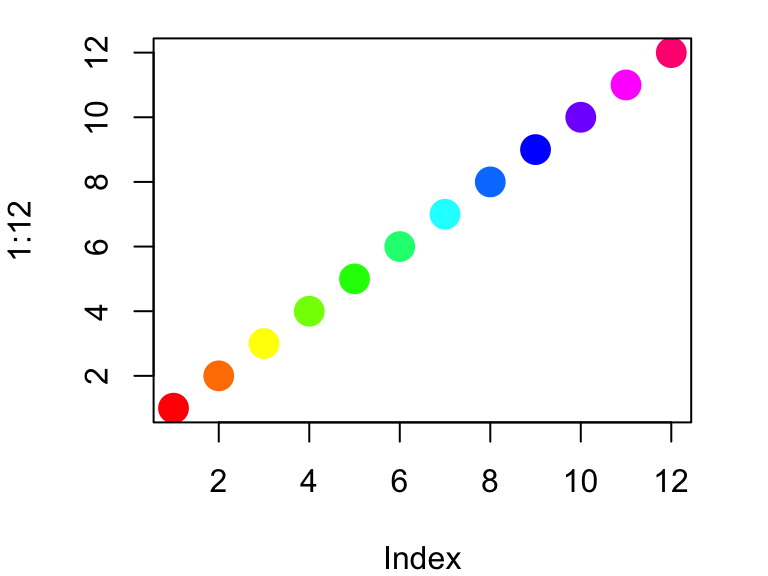
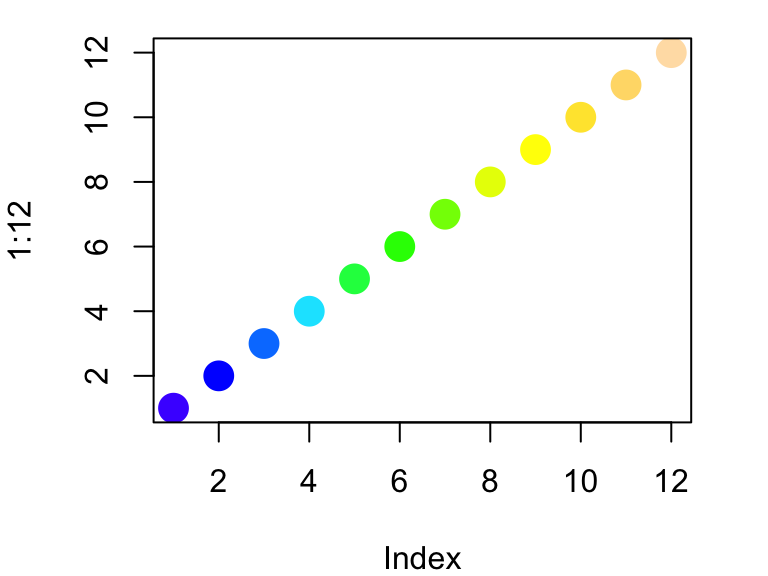
plot module update

diff --git a/05.Plots_1.html b/05.Plots_1.html
@@ -312,13 +312,13 @@ div.tocify {
 <p>But let’s not get ahead of ourselves. In this module, we will cover the basics of the plotting functions in the base package of R. There are many additional packages that help you produce fancier plots (e.g., ‘ggplot2’ and ‘lattice’). We may cover ggplot2 later in the course.</p>
 <hr />
 <div id="first-question-what-do-you-want-to-show" class="section level2">
-<h2>First Question: What do you want to show?</h2>
+<h2>5.1 First Question: What do you want to show?</h2>
 <p>There many, many different ways to visualize data (see <a href="https://datavizproject.com/">datavizproject.com</a>). In fact, “data visualization” is an industry in and of itself at this point. What we need is some directory of different kinds of ways to visualize a given set of data.</p>
 <p><a href="https://serialmentor.com/dataviz/directory-of-visualizations.html">The directory of visualizations presented in Claus Wilke’s online version of his book</a> is as good as any I’ve seen.</p>
 <hr />
 </div>
 <div id="the-basics" class="section level2">
-<h2>5.1 The Basics</h2>
+<h2>5.2 The Basics</h2>
 <p>We will start with the generic <code>plot()</code> function. This function can produce a variety of basic plots. The function can take two different syntax:</p>
 <ul>
 <li><code>plot(x , y)</code> – The Cartesian format will take two variables and plot the first element on the x-axis and the second element on the y-axis. The plot this produces will depend on the type of variables (i.e., numeric or factor) that you put in.</li>
@@ -327,7 +327,7 @@ div.tocify {
 <p>R will automatically detect the type of vector (variable) you are trying to plot.</p>
 <hr />
 <div id="lets-try-it-out" class="section level3">
-<h3>5.1.1 Let’s try it out:</h3>
+<h3>5.2.1 Let’s try it out:</h3>
 <p>Try plotting two numerical vectors (i.e., continuous variables) that we create:</p>
 <pre class="r"><code>a=seq(1,15, 1) #continuous variable 1
 b=seq(16,30,1) #continuous variable 2
@@ -343,35 +343,29 @@ plot(fac, a) #plot factor on x-axis and continuous variable on y-axis</code></pr
 <pre class="r"><code>plot(a~fac) #formula syntax using &quot;~&quot;</code></pre>
 <p>Notice that, in the formula syntax, the order of the variables is different. Here, you are saying “plot <code>a</code> as a function of <code>fac</code>”, so the first variable will show up on the y-axis and the second variable will be plotted on the x-axis.</p>
 <hr />
-</div>
-<div id="a-bit-more-on-boxplots" class="section level3">
-<h3>5.1.2 A bit more on boxplots…</h3>
-<pre class="r"><code>plot(a, fac) #output not shown</code></pre>
-<p>If you want to create a horizontal box plot, the correct way to do it is:</p>
-<pre class="r"><code>plot(fac, a horizontal=T) #output not shown</code></pre>
-<p>There is also another way to create a box plot, using the <code>boxplot()</code> function. For this, the input is different: You will put a series of numerical vectors as different elements. Try this:</p>
-<pre class="r"><code>boxplot(1:5, 6:10, 11:15, names=c(&quot;A&quot;, &quot;B&quot;, &quot;C&quot;))</code></pre>
-<p><img src="05.Plots_1_files/figure-html/unnamed-chunk-9-1.png" width="384" /></p>
-<p><em>What is actually happening when you use the <code>plot()</code> function is that when R runs different functions depending on your input format. Thus, if R detects that you want to plot a factor on the x-axis and numeric on the y-axis, it calls the <code>boxplot()</code> function and runs that function instead. A lot of functions in R work this way: it can call different functions depending on what your inputs look like. Functions like these are sometimes called “wrapper functions”. You don’t really need to know this…</em></p>
 <hr />
 </div>
 <div id="line-plots-and-others" class="section level3">
-<h3>5.1.3 Line plots and others</h3>
+<h3>5.2.2 Line plots and others</h3>
 <p>If you have a timeseries, you sometimes want to create a <strong>line plot</strong>. You can do this simply by designating the plot ‘type’ inside the <code>plot()</code> function:</p>
 <pre class="r"><code>t=seq(1,10,1) # time sequence, from 1 to 10
 response=c(1,5,4,2,3,9,6,7,8,10) # 10 random numbers
 plot(t, response, type=&quot;l&quot;) #plot a line plot</code></pre>
-<p><img src="05.Plots_1_files/figure-html/unnamed-chunk-11-1.png" width="384" /></p>
-<p>You can plot the same figure using points, or both points and lines, and a few other formats (you can look these up using <code>?plot()</code>). Try these out (outputs not shown):</p>
+<p><img src="05.Plots_1_files/figure-html/unnamed-chunk-7-1.png" width="384" /></p>
+<p>You can plot the same figure with both lines and points by using <code>type=&quot;b&quot;</code> for “both”</p>
+<pre class="r"><code>t=seq(1,10,1) # time sequence, from 1 to 10
+response=c(1,5,4,2,3,9,6,7,8,10) # 10 random numbers
+plot(t, response, type=&quot;b&quot;) #plot a line plot</code></pre>
+<p><img src="05.Plots_1_files/figure-html/unnamed-chunk-9-1.png" width="384" /></p>
+<p>You can plot the same figure using a few other formats (you can look these up using <code>?plot()</code>). Try these out (outputs not shown):</p>
 <pre class="r"><code>plot(t, response, type=&quot;p&quot;) #plot just points
-plot(t, response, type=&quot;b&quot;) #plot both points and lines
 plot(t, response, type=&quot;h&quot;) #Make a histogram-like plot with thin lines
 plot(t, response, type=&quot;s&quot;) #Make stair steps</code></pre>
 <hr />
 </div>
 </div>
 <div id="plotting-data-from-a-dataframe" class="section level2">
-<h2>5.2 Plotting data from a dataframe</h2>
+<h2>5.3 Plotting data from a dataframe</h2>
 <p>Let’s practice plotting data from a dataframe.<br />
 First, we need some data to play with. For this exercise, we will use a dataset called <code>iris</code>, which is pre-loaded in R:</p>
 <pre class="r"><code>iris #see all the data
@@ -384,47 +378,47 @@ str(iris) #see the structure of the iris dataset
 </div>
 <p>Let’s try plotting two continuous variables against each other:</p>
 <pre class="r"><code>plot(iris$Sepal.Length, iris$Sepal.Width)</code></pre>
-<p><img src="05.Plots_1_files/figure-html/unnamed-chunk-15-1.png" width="384" /></p>
+<p><img src="05.Plots_1_files/figure-html/unnamed-chunk-13-1.png" width="384" /></p>
 <p>Compare this with what happens when you plot a continuous variable (sepal length) against a factor (iris species):</p>
 <pre class="r"><code>plot(iris$Species, iris$Sepal.Width)</code></pre>
-<p><img src="05.Plots_1_files/figure-html/unnamed-chunk-17-1.png" width="384" /></p>
+<p><img src="05.Plots_1_files/figure-html/unnamed-chunk-15-1.png" width="384" /></p>
 <p>You can also use the <em>formula syntax</em> to do the same thing. Try:</p>
 <pre class="r"><code>plot(iris$Sepal.Width~iris$Sepal.Length) #scatterplot
 plot(iris$Sepal.Width~iris$Species) #box plot</code></pre>
 <p>One useful feature of the formula syntax is that it allows you to specify a dataframe you are using with the <code>data=</code> argument. Then, you can refer to the column name for that dataframe instead of specifying both the dataframe and column name with the <code>$</code> operator. This can simplify the code a little bit:</p>
 <pre class="r"><code>plot(Sepal.Width~Sepal.Length, data=iris)</code></pre>
-<p><img src="05.Plots_1_files/figure-html/unnamed-chunk-20-1.png" width="384" /></p>
+<p><img src="05.Plots_1_files/figure-html/unnamed-chunk-18-1.png" width="384" /></p>
 <hr />
 </div>
 <div id="formatting-the-plot" class="section level2">
-<h2>5.3 Formatting the plot</h2>
+<h2>5.4 Formatting the plot</h2>
 <p>R presents many many ways to customize the format of your plots. We will go through several of these, and then we will learn how to find out more.</p>
 <div id="axis-labels-and-plot-title" class="section level4">
-<h4>5.3.1 Axis labels and plot title</h4>
+<h4>5.4.1 Axis labels and plot title</h4>
 <p>You can relabel the axes using the arguments <code>xlab=</code> and <code>ylab=</code>:</p>
 <pre class="r"><code>plot(Sepal.Width~Sepal.Length, data=iris, xlab=&quot;Sepal Length&quot;, ylab=&quot;Sepal Width&quot;)</code></pre>
-<p><img src="05.Plots_1_files/figure-html/unnamed-chunk-22-1.png" width="384" /></p>
+<p><img src="05.Plots_1_files/figure-html/unnamed-chunk-20-1.png" width="384" /></p>
 <p>Now add a plot title using <code>main=</code> and change re-orient the y-axis values to be horizontal using <code>las=</code>:</p>
 <pre class="r"><code>plot(Sepal.Width~Sepal.Length, data=iris, xlab=&quot;Sepal Length&quot;, ylab=&quot;Sepal Width&quot;, main=&quot;Length vs. width of sepals in Iris&quot;, las=1)</code></pre>
-<p><img src="05.Plots_1_files/figure-html/unnamed-chunk-24-1.png" width="384" /></p>
+<p><img src="05.Plots_1_files/figure-html/unnamed-chunk-22-1.png" width="384" /></p>
 <p>You can change the x- and y-axis ranges by using <code>xlim=</code> and <code>ylim=</code>. These arguments each take a vector of two numbers representing the minimum and maximum values. Let’s make the same plot, but with different axis limits:</p>
 <pre class="r"><code>plot(Sepal.Width~Sepal.Length, data=iris, xlab=&quot;Sepal Length&quot;, ylab=&quot;Sepal Width&quot;, main=&quot;Length vs. width of sepals in Iris&quot;, las=1, xlim=c(0,10), ylim=c(0,5))</code></pre>
-<p><img src="05.Plots_1_files/figure-html/unnamed-chunk-26-1.png" width="384" /></p>
+<p><img src="05.Plots_1_files/figure-html/unnamed-chunk-24-1.png" width="384" /></p>
 </div>
 <div id="types-of-points" class="section level3">
-<h3>5.3.2 Types of points</h3>
+<h3>5.4.2 Types of points</h3>
 <p>You can specify the types of points you want to use with the <code>pch=</code> argument. Try this:</p>
 <pre class="r"><code>plot(Sepal.Width~Sepal.Length, data=iris, xlab=&quot;Sepal Length&quot;, ylab=&quot;Sepal Width&quot;, las=1, pch=4)</code></pre>
-<p><img src="05.Plots_1_files/figure-html/unnamed-chunk-28-1.png" width="384" /></p>
-<p>Here are what the symbols look like for ‘pch’ values ranging from 1 to 25. <img src="05.Plots_1_files/figure-html/unnamed-chunk-29-1.png" width="1008" /></p>
+<p><img src="05.Plots_1_files/figure-html/unnamed-chunk-26-1.png" width="384" /></p>
+<p>Here are what the symbols look like for ‘pch’ values ranging from 1 to 25. <img src="05.Plots_1_files/figure-html/unnamed-chunk-27-1.png" width="1008" /></p>
 <p>You can manipulate the sizes of points by using the argument <code>cex=</code>:</p>
 <pre class="r"><code>plot(Sepal.Width~Sepal.Length, data=iris, xlab=&quot;Sepal Length&quot;, ylab=&quot;Sepal Width&quot;, las=1, pch=1, cex=3)</code></pre>
-<p><img src="05.Plots_1_files/figure-html/unnamed-chunk-31-1.png" width="384" /></p>
+<p><img src="05.Plots_1_files/figure-html/unnamed-chunk-29-1.png" width="384" /></p>
 <hr />
 </div>
 </div>
 <div id="colors" class="section level2">
-<h2>5.4 Colors!</h2>
+<h2>5.5 Colors!</h2>
 <p>You can specify the colors of the points using the argument <code>col=</code> inside the <code>plot()</code> function. This argument can take many different types of inputs:</p>
 <ul>
 <li>numerical values from 1:8</li>
@@ -434,65 +428,65 @@ plot(iris$Sepal.Width~iris$Species) #box plot</code></pre>
 <li>the <code>rgb()</code> function</li>
 </ul>
 <div id="using-numerical-values" class="section level3">
-<h3>5.4.1 Using numerical values:</h3>
+<h3>5.5.1 Using numerical values:</h3>
 <pre class="r"><code>plot(Sepal.Width~Sepal.Length, data=iris, xlab=&quot;Sepal Length&quot;, ylab=&quot;Sepal Width&quot;,  las=1, pch=19, col=4)</code></pre>
-<p><img src="05.Plots_1_files/figure-html/unnamed-chunk-33-1.png" width="384" /></p>
-<p>However, using numerical values is pretty limiting. R only uses values of 1 through 8 to assign colors. Here are those colors: <img src="05.Plots_1_files/figure-html/unnamed-chunk-34-1.png" width="576" /></p>
+<p><img src="05.Plots_1_files/figure-html/unnamed-chunk-31-1.png" width="384" /></p>
+<p>However, using numerical values is pretty limiting. R only uses values of 1 through 8 to assign colors. Here are those colors: <img src="05.Plots_1_files/figure-html/unnamed-chunk-32-1.png" width="576" /></p>
 </div>
 <div id="using-named-colors" class="section level3">
-<h3>5.4.2 Using named colors:</h3>
+<h3>5.5.2 Using named colors:</h3>
 <p>You can also specify colors using just the names of colors as characters. For example, to make a plot with red dots:</p>
 <pre class="r"><code>plot(Sepal.Width~Sepal.Length, data=iris, xlab=&quot;Sepal Length&quot;, ylab=&quot;Sepal Width&quot;,  las=1, pch=19, col=&quot;red&quot;)</code></pre>
-<p><img src="05.Plots_1_files/figure-html/unnamed-chunk-36-1.png" width="384" /></p>
+<p><img src="05.Plots_1_files/figure-html/unnamed-chunk-34-1.png" width="384" /></p>
 <p>There are infinite possibilities for color in R. Many colors have straightforward names (e.g., like “blue”), but there are also lots of crazy color names. Here is one useful page for named colors: <a href="http://www.stat.columbia.edu/~tzheng/files/Rcolor.pdf" class="uri">http://www.stat.columbia.edu/~tzheng/files/Rcolor.pdf</a></p>
-<p>Here are some examples: <img src="05.Plots_1_files/figure-html/unnamed-chunk-37-1.png" width="960" /></p>
+<p>Here are some examples: <img src="05.Plots_1_files/figure-html/unnamed-chunk-35-1.png" width="960" /></p>
 </div>
 <div id="using-hexadecimal-color-specification" class="section level3">
-<h3>5.4.3 Using hexadecimal color specification:</h3>
+<h3>5.5.3 Using hexadecimal color specification:</h3>
 <p>You can use the standard hexadecimal color specification. For example, the hexadecimal code for green is #00FF00:</p>
 <pre class="r"><code>plot(Sepal.Width~Sepal.Length, data=iris, xlab=&quot;Sepal Length&quot;, ylab=&quot;Sepal Width&quot;,  las=1, pch=19, col=&quot;#00FF00&quot;)</code></pre>
-<p><img src="05.Plots_1_files/figure-html/unnamed-chunk-39-1.png" width="384" /></p>
+<p><img src="05.Plots_1_files/figure-html/unnamed-chunk-37-1.png" width="384" /></p>
 <p>You can look up hex color codes here: <a href="http://www.color-hex.com/" class="uri">http://www.color-hex.com/</a></p>
 </div>
 <div id="creating-a-color-palette" class="section level3">
-<h3>5.4.4 Creating a color palette:</h3>
+<h3>5.5.4 Creating a color palette:</h3>
 <p>There are several functions to create color palettes from a template. For example, we can use a <code>rainbow()</code> function. You can put the number of colors you want, and the function will pick three colors that are the most different from each other within the specified spectrum.</p>
 <p>Try it out by plotting 12 different colors:</p>
 <pre class="r"><code>my.colors=rainbow(12) #set up color palette of rainbow colors with n = 12
 plot(1:12, pch=19, cex=2, col=my.colors) #plot dots, each with different colors</code></pre>
-<p><img src="05.Plots_1_files/figure-html/unnamed-chunk-41-1.png" width="384" /></p>
+<p><img src="05.Plots_1_files/figure-html/unnamed-chunk-39-1.png" width="384" /></p>
 <p>Other examples of color palettes include: <code>heat.colors()</code>, <code>terrain.colors()</code>, <code>topo.colors()</code> and <code>cm.colors()</code></p>
 <pre class="r"><code>my.colors=topo.colors(12) #set up color palette of topo colors with n = 12
 plot(1:12, pch=19, cex=2, col=my.colors) #plot dots, each with different colors</code></pre>
-<p><img src="05.Plots_1_files/figure-html/unnamed-chunk-43-1.png" width="384" /></p>
+<p><img src="05.Plots_1_files/figure-html/unnamed-chunk-41-1.png" width="384" /></p>
 <p>Try the same with <code>heat.colors()</code>, <code>topo.colors()</code>, and <code>cm.colors()</code>.</p>
 <p>You can get more color palettes from other R Packages such as RColorBrewer.</p>
 </div>
 <div id="using-the-rgb-to-produce-different-colors" class="section level3">
-<h3>5.4.5 Using the rgb() to produce different colors</h3>
-<p>There are a couple of ways to create color gradients. First, you can use the <code>rgb()</code> function to create custom colors. This function takes four arguments: intensities of red, green, blue, and the alpha transparency value. Thus, you can create any color with any opacity. Here are some examples of colors that you can produce with the <code>rgb()</code> function. <img src="05.Plots_1_files/figure-html/unnamed-chunk-44-1.png" width="576" /></p>
+<h3>5.5.5 Using the rgb() to produce different colors</h3>
+<p>There are a couple of ways to create color gradients. First, you can use the <code>rgb()</code> function to create custom colors. This function takes four arguments: intensities of red, green, blue, and the alpha transparency value. Thus, you can create any color with any opacity. Here are some examples of colors that you can produce with the <code>rgb()</code> function. <img src="05.Plots_1_files/figure-html/unnamed-chunk-42-1.png" width="576" /></p>
 <p>Let’s try plotting the figure with enlarged points and transparent color:</p>
 <pre class="r"><code>plot(Sepal.Width~Sepal.Length, data=iris, xlab=&quot;Sepal Length&quot;, ylab=&quot;Sepal Width&quot;, las=1, pch=1, cex=3, col=rgb(1, 0, 0, 0.5))</code></pre>
-<p><img src="05.Plots_1_files/figure-html/unnamed-chunk-46-1.png" width="384" /></p>
+<p><img src="05.Plots_1_files/figure-html/unnamed-chunk-44-1.png" width="384" /></p>
 <hr />
 </div>
 </div>
 <div id="setting-up-the-plotting-region-using-par" class="section level2">
-<h2>5.5 Setting up the plotting region using <code>par()</code></h2>
+<h2>5.6 Setting up the plotting region using <code>par()</code></h2>
 <p>The <code>par()</code> function is used <em>before</em> the <code>plot()</code> function to set up aspects of the plotting region. For example, you can set the plotting region to be two columns and plot two different plots using <code>mfrow=</code> argument inside the <code>par()</code> function.</p>
 <pre class="r"><code>par(mfrow=c(1,2)) #set up a plotting region with one row and two columns:
 plot(Sepal.Width~Sepal.Length, data=iris, xlab=&quot;Sepal Length&quot;, ylab=&quot;Sepal Width&quot;,  las=1, pch=19, col=&quot;#00FF00&quot;) #first plot
 plot(Sepal.Width~Sepal.Length, data=iris, xlab=&quot;Sepal Length&quot;, ylab=&quot;Sepal Width&quot;, las=1, pch=19, col=&quot;tomato&quot;) #secon plot</code></pre>
-<p><img src="05.Plots_1_files/figure-html/unnamed-chunk-48-1.png" width="768" /></p>
+<p><img src="05.Plots_1_files/figure-html/unnamed-chunk-46-1.png" width="768" /></p>
 <hr />
-</div>
-<div id="how-to-learn-more-about-plot-and-par-functions" class="section level2">
-<h2>5.6 How to learn more about <code>plot()</code> and <code>par()</code> functions</h2>
+<div id="how-to-learn-more-about-plot-and-par-functions" class="section level3">
+<h3>5.6.1 How to learn more about <code>plot()</code> and <code>par()</code> functions</h3>
 <p>So we have learned some ways to customize plots in the sections above. As you might imagine, there are many, many more ways to customize plots. Most of the graphical parameters you need can be found by looking in the help file for the function <code>par()</code>. Take a look at this help file:</p>
 <pre class="r"><code>?par</code></pre>
 <p>Many of the arguments presented in this help file can be called within the <code>plot()</code> function or the <code>par()</code> function. However, as noted near the beginning of the “Details” section, there are several arguments that can only be called from the <code>par()</code> function, and there are also several argumnets that produce slightly different results based on whether they are called within the <code>plot()</code> or <code>par()</code> function.<br />
 I have included an <strong>Appendix</strong> to this module that contains a table of all graphical parameters I know of and their usage.</p>
 <hr />
+</div>
 </div>
 <div id="plotting-data-by-factors-and-using-legends" class="section level2">
 <h2>5.7 Plotting data by factors and using legends</h2>
@@ -510,18 +504,18 @@ Let’s think about how we might do this. Recall that the dataframe has a column
 ## [141] 3 3 3 3 3 3 3 3 3 3</code></pre>
 <p>So, we can use this trick to assign different colors to dots for different species.</p>
 <pre class="r"><code>plot(Sepal.Width~Sepal.Length, data=iris, xlab=&quot;Sepal Length&quot;, ylab=&quot;Sepal Width&quot;, las=1, pch=19, col=as.numeric(iris$Species))</code></pre>
-<p><img src="05.Plots_1_files/figure-html/unnamed-chunk-53-1.png" width="384" /></p>
+<p><img src="05.Plots_1_files/figure-html/unnamed-chunk-51-1.png" width="384" /></p>
 <p>You can look above to where we discussed colors and see that col=1 is black, col=2 is red, and col=3 is green.</p>
 <p>However, you may want to assign your own custom color sets to the plots. If so, what you need to do is come up with three colors that you want to use, say from the <code>topo.colors()</code> function. Then, we can use <code>as.numeric(iris$Species)</code> (remember: these values range from 1 to 3) as the index to point to the color that will correspond to the species. Try this:</p>
 <pre class="r"><code>colorset=rainbow(3) #create a palette of 3 colors
 pt.cols=colorset[as.numeric(iris$Species)] #This is now a vector of colors for each point</code></pre>
 <p>Now, you can use this new set of colors, <code>pt.cols</code>, for the plot.</p>
 <pre class="r"><code>plot(Sepal.Width~Sepal.Length, data=iris, xlab=&quot;Sepal Length&quot;, ylab=&quot;Sepal Width&quot;, las=1, pch=19, col=pt.cols)</code></pre>
-<p><img src="05.Plots_1_files/figure-html/unnamed-chunk-56-1.png" width="384" /></p>
+<p><img src="05.Plots_1_files/figure-html/unnamed-chunk-54-1.png" width="384" /></p>
 <p>Of course, if you start using different colors for different information, you need to add a legend. You can do that with the <code>legend()</code> function. Take a quick look at the help file by using <code>?legend</code>. This function has arguments to assign the location (either using a keyword or x-y coordinates) within the plotting region where you want to put the legend, what the legends are, and several parameters to assign the symbols. Here is an example:</p>
 <pre class="r"><code>plot(Sepal.Width~Sepal.Length, data=iris, xlab=&quot;Sepal Length&quot;, ylab=&quot;Sepal Width&quot;, las=1, pch=19, col=pt.cols)
 legend(&quot;bottomright&quot;, legend=c(&quot;I. setosa&quot;, &quot;I. versicolor&quot;, &quot;I. virginica&quot;), pch=19, col=colorset)</code></pre>
-<p><img src="05.Plots_1_files/figure-html/unnamed-chunk-58-1.png" width="480" /></p>
+<p><img src="05.Plots_1_files/figure-html/unnamed-chunk-56-1.png" width="480" /></p>
 <p>Here, I just told R to plot the legend on the bottom right, but you can also tell it the x-y coordinates of the top left corner of the legend. Often, just using the key words (“bottomright”, “bottom”, “bottomleft”, “left”, “topleft”, “top”, “topright”, “right” or “center”) works well.</p>
 <p>Ok, the legend looks good, but it’s on top of some of the points. What I would really like to do is plot the legend outside of the plot. To do this, I have to do two things to set up the plotting region using the <code>par()</code> function: Tell it to allow me to plot something outside the axes (<code>xpd=TRUE</code>), and expand the margins of the plotting region, especially to the right of the plot. This can be specified using the <code>mar=</code> argument (see <code>?par</code> for details). Then, you can set the legend plotting region to be outside the plot (say at x = 8.2 and y = 3):</p>
 <pre class="r"><code>par(mar=c(4,4,1,7), xpd=TRUE) #make the margin wider, and allow me to plot outside the box.
@@ -529,7 +523,7 @@ legend(&quot;bottomright&quot;, legend=c(&quot;I. setosa&quot;, &quot;I. versico
 plot(Sepal.Width~Sepal.Length, data=iris, xlab=&quot;Sepal Length&quot;, ylab=&quot;Sepal Width&quot;, las=1, pch=19, col=pt.cols)
 
 legend(8.2, 3, legend=c(&quot;I. setosa&quot;, &quot;I. versicolor&quot;, &quot;I. virginica&quot;), pch=19, col=colorset)</code></pre>
-<p><img src="05.Plots_1_files/figure-html/unnamed-chunk-59-1.png" width="480" /></p>
+<p><img src="05.Plots_1_files/figure-html/unnamed-chunk-57-1.png" width="480" /></p>
 <hr />
 </div>
 <div id="adding-more-elements-to-existing-plots" class="section level2">
@@ -551,21 +545,21 @@ mean.Sepal.length</code></pre>
 <p>We will now use the <code>points()</code> function to add “x” at the mean values for all three species:</p>
 <pre class="r"><code>example.plot
 points(x=mean.Sepal.length, y=mean.Sepal.width, pch=&quot;x&quot;, cex=2) #add an &quot;x&quot; at the mean Sepal length &amp; width for all three species</code></pre>
-<p><img src="05.Plots_1_files/figure-html/unnamed-chunk-64-1.png" width="384" /></p>
+<p><img src="05.Plots_1_files/figure-html/unnamed-chunk-62-1.png" width="384" /></p>
 <p>We can add text too. The <code>text()</code> function takes arguments for where the text should be centered, but you can specify whether the text goes below, left, above or right of the point (using the <code>pos=</code> argument), and how far it should be offset from the point (<code>offset=</code> argument):</p>
 <pre class="r"><code>example.plot
 points(x=mean.Sepal.length, y=mean.Sepal.width, pch=&quot;x&quot;, cex=2)
 text(x=mean.Sepal.length, y=mean.Sepal.width, labels=c(&quot;setosa&quot;, &quot;versicolor&quot;, &quot;virginica&quot;), pos=1, offset=0.5) #add text below each of the &quot;x&quot; (pos=1), and how far it should be offset (offset = 0.5)</code></pre>
-<p><img src="05.Plots_1_files/figure-html/unnamed-chunk-66-1.png" width="384" /></p>
+<p><img src="05.Plots_1_files/figure-html/unnamed-chunk-64-1.png" width="384" /></p>
 <p>You can also add lines to plots. There are two functions to add lines: <code>abline()</code> and <code>lines()</code>. The <code>abline()</code> function is a bit more straightforward. This function can be used to draw a line that is vertical, horizontal, or with a specific slope and intercept. Let’s use this function to draw a vertical line at the mean Sepal length for <em>I. setosa</em> using the <code>v=</code> argument within the function. We will use the <code>lty=3</code> argument to make a dotted line.</p>
 <pre class="r"><code>example.plot
 abline(v=mean.Sepal.length, lty=3) #add a vertical lines at the mean Sepal length for each species. </code></pre>
-<p><img src="05.Plots_1_files/figure-html/unnamed-chunk-68-1.png" width="384" /></p>
+<p><img src="05.Plots_1_files/figure-html/unnamed-chunk-66-1.png" width="384" /></p>
 <p>We can also add lines for the mean Sepal widths, and make the line colors correspond to the point colors:</p>
 <pre class="r"><code>example.plot
 abline(v=mean.Sepal.length, lty=3, col=colorset) #add vertical lines at the mean Sepal lengths for each species. 
 abline(h=mean.Sepal.width, lty=3, col=colorset) #add horizontal lines at the mean Sepal widths for each species.</code></pre>
-<p><img src="05.Plots_1_files/figure-html/unnamed-chunk-70-1.png" width="384" /></p>
+<p><img src="05.Plots_1_files/figure-html/unnamed-chunk-68-1.png" width="384" /></p>
 <hr />
 </div>
 <div id="saving-plots" class="section level2">
